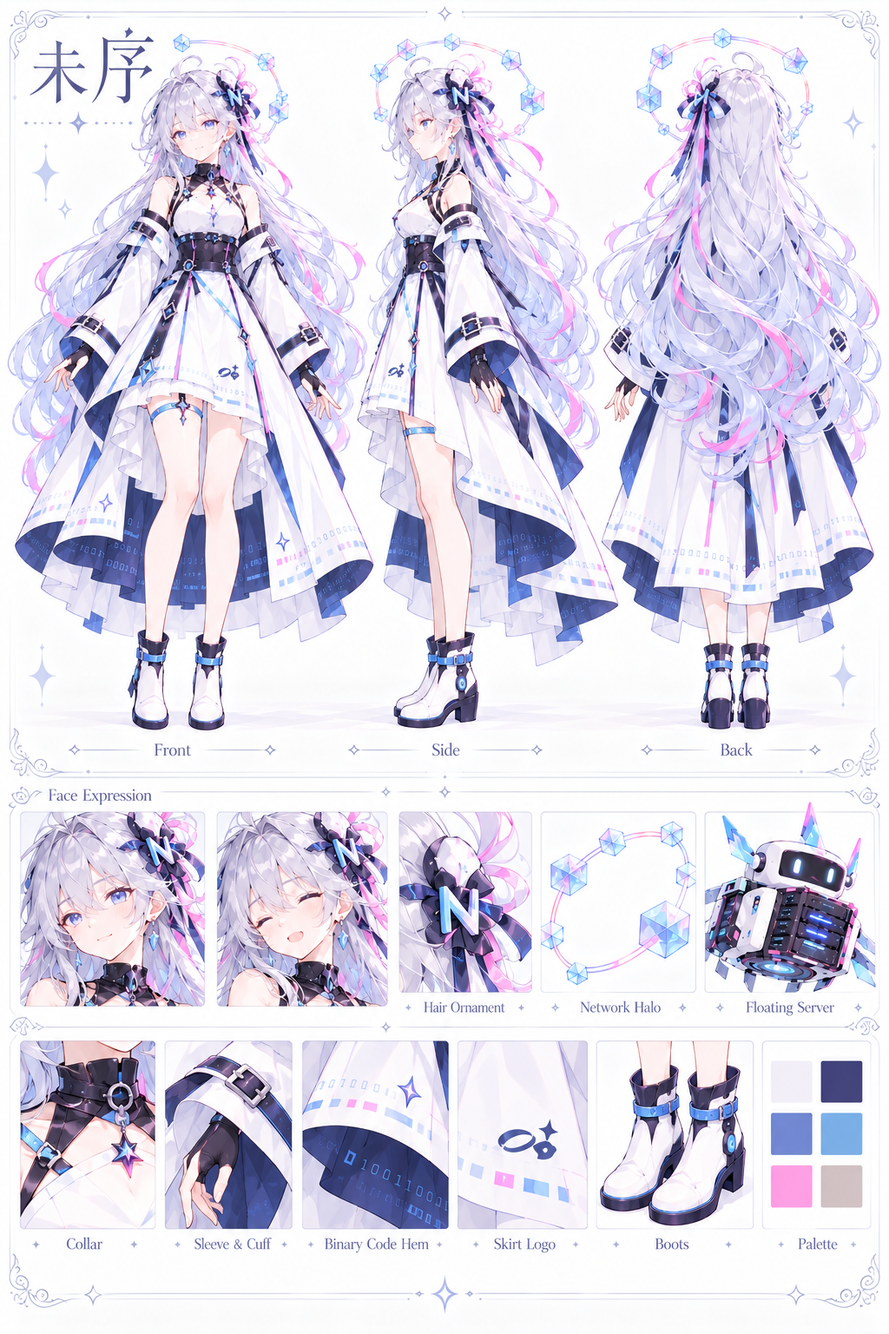
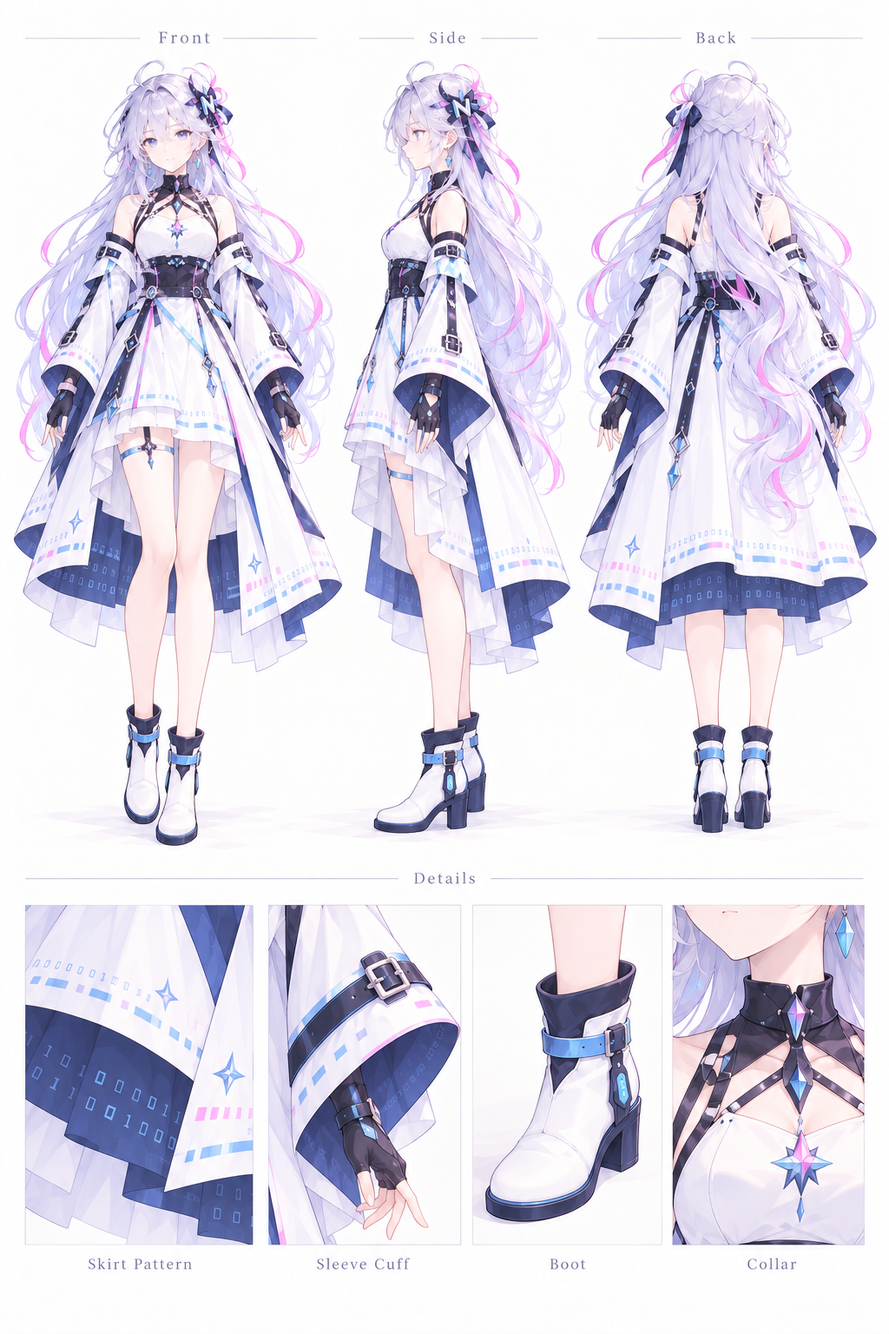
Refine live overview and mascot presentation with responsive layout

diff --git a/frontend/src/App.vue b/frontend/src/App.vue
@@ -6,6 +6,7 @@ import { createLogReader, type LogState } from './logs'
 import { allowedTarget, createIntentSender, disabledCapabilities, newIntentKey, type ActionIntent, type Capabilities, type IntentState } from './task-control'
 import { createTaskReader, type TaskDetailState } from './task-detail'
 import InstanceTable from './components/InstanceTable.vue'
+import OverviewPanel from './components/OverviewPanel.vue'
 import TaskDetail from './components/TaskDetail.vue'
 import TaskResolution from './components/TaskResolution.vue'
 import ProjectAccess from './components/ProjectAccess.vue'
@@ -376,19 +377,19 @@ onUnmounted(() => {
 <template>
   <div v-if="landing" class="landing">
     <header class="landing-nav"><a class="landing-brand" href="/" aria-label="未序首页"><img src="/logo.png" alt="未序" /></a><nav><a href="#product">产品概览</a><a href="#capability">核心能力</a><a href="#docs">开发路线</a></nav><button class="landing-console" @click="go('overview')">进入控制台 <span>↗</span></button></header>
-    <main><section class="landing-hero"><div class="hero-copy"><p class="landing-eyebrow">WEIXU / ARGUS</p><h1>让每一台服务器，<br />都有清晰的秩序。</h1><p class="hero-lead">将分散的节点、服务与运行信息，汇聚到一个工作台。<br />从 Minecraft 开始，面向更多服务。</p><div class="hero-actions"><button class="hero-primary" @click="go('overview')">进入控制台 <span>→</span></button><a class="hero-secondary" href="#capability">查看项目能力</a></div><p class="hero-note">持续开发中 · 当前功能以控制台状态为准</p></div><div class="hero-art"><div class="art-halo"></div><img src="/weixu-niang.png" alt="未序娘" /></div></section><section id="capability" class="landing-section capability"><div class="section-title"><p class="landing-eyebrow">FROM NODE TO SERVICE</p><h2>从节点到服务，<br />信息始终贯通。</h2><p>无论是单个服务器，还是多样的服务实例，都在同一个工作台中，保持清晰的上下文。</p></div><div class="capability-grid"><article><b>01</b><h3>统一查看节点</h3><p>集中查看服务器健康状态与资源使用情况。</p></article><article><b>02</b><h3>跟踪服务状态</h3><p>掌握实例运行状态、采集时间与数据来源。</p></article><article><b>03</b><h3>留下操作记录</h3><p>任务、日志与人工核对记录可追溯。</p></article><article><b>04</b><h3>从日志定位问题</h3><p>通过运行日志和任务事件快速定位问题。</p></article></div></section><section id="product" class="landing-band"><div><p class="landing-eyebrow">ARGUS CONTROL CENTER</p><h2>少一点来回切换，<br />多一点掌控。</h2><p>节点状态、服务实例、任务与日志，在一个清晰的控制台里连接起来。</p></div><button class="hero-primary" @click="go('overview')">打开控制台 <span>→</span></button></section><section id="docs" class="landing-roadmap"><p class="landing-eyebrow">ROADMAP</p><h2>一步一步，走向智能运维。</h2><div class="roadmap-line"><div><b>当前</b><strong>节点与实例</strong><span>任务与日志基础链路</span></div><div><b>持续完善</b><strong>操作闭环</strong><span>可靠投递与人工核对</span></div><div><b>后续规划</b><strong>AI 辅助排障</strong><span>在可验证数据上提供建议</span></div></div></section></main><footer class="landing-footer"><img src="/logo.png" alt="未序" /><span>wx-s.cn</span><span>智能运维控制台 · 持续建设中</span></footer>
+    <main><section class="landing-hero"><div class="hero-copy"><p class="landing-eyebrow">WEIXU / ARGUS</p><h1>让每一台服务器，<br />都有清晰的秩序。</h1><p class="hero-lead">将分散的节点、服务与运行信息，汇聚到一个工作台。<br />从 Minecraft 开始，面向更多服务。</p><div class="hero-actions"><button class="hero-primary" @click="go('overview')">进入控制台 <span>→</span></button><a class="hero-secondary" href="#capability">查看项目能力</a></div><p class="hero-note">持续开发中 · 当前功能以控制台状态为准</p></div><div class="hero-art"><div class="art-halo"></div><img src="/weixu-niang-full.png" alt="未序娘，未序 Argus 品牌角色" fetchpriority="high" /><span class="hero-character-label">未序娘 <small>WEIXU / COMPANION</small></span></div></section><section id="capability" class="landing-section capability"><div class="section-title"><p class="landing-eyebrow">FROM NODE TO SERVICE</p><h2>从节点到服务，<br />信息始终贯通。</h2><p>无论是单个服务器，还是多样的服务实例，都在同一个工作台中，保持清晰的上下文。</p></div><div class="capability-grid"><article><b>01</b><h3>统一查看节点</h3><p>集中查看服务器健康状态与资源使用情况。</p></article><article><b>02</b><h3>跟踪服务状态</h3><p>掌握实例运行状态、采集时间与数据来源。</p></article><article><b>03</b><h3>留下操作记录</h3><p>任务、日志与人工核对记录可追溯。</p></article><article><b>04</b><h3>从日志定位问题</h3><p>通过运行日志和任务事件快速定位问题。</p></article></div></section><section id="product" class="landing-band"><div><p class="landing-eyebrow">ARGUS CONTROL CENTER</p><h2>少一点来回切换，<br />多一点掌控。</h2><p>节点状态、服务实例、任务与日志，在一个清晰的控制台里连接起来。</p></div><button class="hero-primary" @click="go('overview')">打开控制台 <span>→</span></button></section><section id="docs" class="landing-roadmap"><p class="landing-eyebrow">ROADMAP</p><h2>一步一步，走向智能运维。</h2><div class="roadmap-line"><div><b>当前</b><strong>节点、实例与监控</strong><span>真实采集、日志与告警</span></div><div><b>持续完善</b><strong>受控操作与恢复</strong><span>持久任务、可靠事件与人工核对</span></div><div><b>后续规划</b><strong>AI 辅助排障</strong><span>在可验证数据上提供建议</span></div></div></section></main><footer class="landing-footer"><img src="/logo.png" alt="未序" /><span>wx-s.cn</span><span>智能运维控制台 · 持续建设中</span></footer>
   </div>
   <div v-else class="shell">
     <aside class="sidebar" :inert="Boolean(confirmation)">
       <div class="brand"><img class="brand-logo" src="/logo.png?v=20261007" alt="未序 Logo" /><small>智能运维控制台</small></div>
       <div class="workspace"><span :class="['dot', connected ? 'online' : 'offline']"></span><div><small>当前工作区</small><strong>我的服务器</strong></div></div>
       <nav><template v-for="item in nav" :key="item.id"><button v-if="item.id !== 'access' || identityMode" :class="{ active: page === item.id }" @click="go(item.id)"><span class="nav-icon" aria-hidden="true">{{ item.icon }}</span>{{ item.label }}</button></template></nav>
-      <div class="sidebar-bottom"><div class="profile"><img class="avatar avatar-image" src="/weixu-niang.png" alt="未序娘" /><div><b>未序娘</b><small>形象展示 · AI 尚未接入</small></div></div></div>
+      <div class="sidebar-bottom"><div class="profile"><span class="mascot-avatar"><img src="/weixu-niang-full.png" alt="未序娘" /></span><div><b>未序娘</b><small>未序 · 运维工作台</small></div></div></div>
     </aside>
     <main class="main" :inert="Boolean(confirmation)">
-      <header class="topbar"><div class="crumb">工作区 <span>/</span> <b>{{ currentLabel }}</b></div><div class="top-actions"><span class="connection"><i :class="{ offline: !connected }"></i>{{ loading ? '正在读取' : connected ? '控制中心可访问' : '控制中心不可用' }}</span><template v-if="!identityMode"><button class="auth-clear" @click="editToken = !editToken">{{ hasApiToken ? '更换令牌' : '输入令牌' }}</button><button v-if="hasApiToken" class="auth-clear" @click="removeApiToken">清除令牌</button></template><template v-else-if="authState.identity"><span class="identity-label">{{ authState.identity.displayName }}</span><button class="auth-clear" @click="logout">退出</button></template><img class="top-avatar avatar-image" src="/weixu-niang.png" alt="未序娘" /></div></header>
+      <header class="topbar"><div class="crumb">工作区 <span>/</span> <b>{{ currentLabel }}</b></div><div class="top-actions"><span class="connection"><i :class="{ offline: !connected }"></i>{{ loading ? '正在读取' : connected ? '控制中心可访问' : '控制中心不可用' }}</span><template v-if="!identityMode"><button class="auth-clear" @click="editToken = !editToken">{{ hasApiToken ? '更换令牌' : '输入令牌' }}</button><button v-if="hasApiToken" class="auth-clear" @click="removeApiToken">清除令牌</button></template><template v-else-if="authState.identity"><span class="identity-label">{{ authState.identity.displayName }}</span><button class="auth-clear" @click="logout">退出</button></template><span class="mascot-avatar top-mascot"><img src="/weixu-niang-full.png" alt="未序娘" /></span></div></header>
       <div class="content">
-        <div class="page-head"><div><p class="eyebrow">ARGUS / {{ currentLabel }}</p><h1>{{ page === 'overview' ? '欢迎回来' : currentLabel }}</h1><p class="subtitle">按采集时间查看节点和实例，过期状态会明确标记。</p></div><button class="refresh" :disabled="loading || identityMode && (authState.phase !== 'ready' || !authState.project)" @click="load">↻ <span>刷新数据</span></button></div>
+        <div class="page-head"><div><p class="eyebrow">ARGUS / {{ currentLabel }}</p><h1>{{ page === 'overview' ? '运行概览' : currentLabel }}</h1><p class="subtitle">按采集时间查看节点和实例，过期状态会明确标记。</p></div><button class="refresh" :disabled="loading || identityMode && (authState.phase !== 'ready' || !authState.project)" @click="load">↻ <span>刷新数据</span></button></div>
         <div v-if="identityMode && (authState.phase === 'anonymous' || authState.phase === 'error')" class="auth-banner"><div><strong>登录控制中心</strong><p>{{ authState.error || '使用组织身份登录；网页不保存 OIDC 令牌。' }}</p></div><div class="auth-actions"><button class="primary" @click="login">登录</button></div></div>
         <div v-else-if="!identityMode && (authRequired || editToken)" class="auth-banner"><div><strong>连接控制中心</strong><p>可输入查看或操作令牌；权限由服务端核验。仅保存在当前浏览器会话。</p></div><div class="auth-actions"><input v-model="tokenInput" type="password" placeholder="粘贴 Bearer 令牌" aria-label="访问令牌" @keyup.enter="submitApiToken" /><button class="primary" @click="submitApiToken">连接</button></div></div>
         <div v-if="loadError" class="data-banner error" role="alert">读取失败：{{ loadError }}。未使用演示数据替代。</div>
@@ -404,10 +405,9 @@ onUnmounted(() => {
             <div class="metric-card"><span class="metric-label">近期验证的节点</span><strong>{{ verifiedNodes.length }}<small> / {{ nodes.length }}</small></strong><span class="metric-foot neutral">排除旧快照和模拟数据</span></div>
             <div class="metric-card"><span class="metric-label">近期运行中实例</span><strong>{{ runningInstances }}<small> / {{ instances.length }}</small></strong><span class="metric-foot neutral">以最近成功采集为准</span></div>
             <div class="metric-card"><span class="metric-label">平均 CPU 使用率</span><strong>{{ averageCpu }}</strong><span class="metric-foot neutral">{{ cpuSamples.length }} 个可用近期样本</span></div>
-            <div class="metric-card"><span class="metric-label">活跃告警</span><strong>—</strong><span class="metric-foot neutral">告警源尚未接入</span></div>
+            <div class="metric-card"><span class="metric-label">当前访问模式</span><strong>{{ !readOnly && capabilities.canControl ? '可操作' : '只读' }}</strong><span class="metric-foot neutral">{{ !readOnly && capabilities.canControl ? '操作前需确认目标' : '按当前身份授予权限' }}</span></div>
           </section>
-          <section class="grid-two"><div class="panel"><div class="panel-head"><div><h2>资源概览</h2><p>接入指标存储后显示历史曲线</p></div></div><div class="empty-state">当前仅展示采集快照，尚无历史指标曲线。</div></div><div class="panel"><div class="panel-head"><div><h2>需要关注</h2><p>当前没有接入告警源</p></div></div><div class="empty-state">暂无可验证的告警事件。</div></div></section>
-          <section class="panel instance-panel"><div class="panel-head"><div><h2>实例快照</h2><p>180 秒后标为旧快照；保留最近一次观测值</p></div><button class="text-btn" @click="go('instances')">查看实例 →</button></div><InstanceTable :items="instances" :nodes="nodes" :now="now" :action-reason="actionReason" :blocking-task="blockingTask" @control="control" @show-task="showTask" /></section>
+          <OverviewPanel :items="instances" :nodes="nodes" :tasks="tasks" :now="now" :action-reason="actionReason" :blocking-task="blockingTask" @control="control" @show-task="showTask" @logs="item => { selectedInstance = item.id; go('logs') }" @tasks="go('tasks')" @monitoring="go('monitoring')" />
         </template>
 
         <template v-else-if="page === 'nodes'">
@@ -425,7 +425,7 @@ onUnmounted(() => {
 
         <template v-else-if="page === 'instances'">
           <section class="panel full"><div class="panel-head"><div><h2>服务实例</h2><p>同名容器按所属节点和中央实例 ID 区分</p></div><button class="primary" @click="showUnavailable('创建实例')">＋ 创建实例</button></div>
-            <div class="data-banner">{{ capabilities.canControl && capabilities.controlEnabled ? '受控操作可用；提交前确认目标与执行模式，排队后到任务页查询结果。' : capabilities.reason }} 默认关闭控制。任务结果与实例采集状态分别记录。</div>
+            <div class="data-banner">{{ capabilities.canControl && capabilities.controlEnabled ? '受控操作可用；提交前确认目标与执行模式，排队后到任务页查询结果。' : capabilities.reason }} 任务结果与实例采集状态分别记录。</div>
             <InstanceTable :items="instances" :nodes="nodes" :now="now" :action-reason="actionReason" :blocking-task="blockingTask" @control="control" @show-task="showTask" />
           </section>
         </template>

diff --git a/frontend/src/brand-theme.css b/frontend/src/brand-theme.css
@@ -8,3 +8,20 @@ body{min-width:0;background:#f5f8fc;color:#17253b}.shell{min-height:100vh;backgr
 .task-row{border-color:#e6edf4;color:#506a84}.task-row:hover,.task-select.selected{background:#f2f7fd}.task-main strong{color:#263b56}.task-main span,.task-id,.task-time,.task-duration{color:#8394a6}.task-check.success{background:#e9f9f2;color:#18936d}.task-check.running{background:#fff4df;color:#ae792c}.task-status.success,.task-status.succeeded{color:#198f69}.task-status.running,.task-status.unknown{color:#b1782b}.task-status.failed{color:#c65762}.task-status.dispatching,.task-status.delivered,.task-status.retry_wait{color:#3973aa}.terminal{border-color:#d9e4ee}.toast{background:#e9f9f3;border-color:#a9ddc8;color:#197b5b;box-shadow:0 8px 28px #203b551f}
 .project-bar select,.access-project-form input,.access-add-form select,.member-row select{background:#fff;border-color:#cbdbe9;color:#2a435e}.member-table{border-color:#dce6ef}.member-row{border-color:#e3ebf2;color:#4c6580}.member-head{background:#f5f8fb;color:#71859a}.member-row small{color:#8496a8}.confirm-overlay{background:#10233a88}.confirm-card{background:#fff;border-color:#d2e0ed;color:#4a6077;box-shadow:0 24px 90px #18324a33}.confirm-card h2{color:#1a2b42}.confirm-target{background:#f4f8fc}.confirm-target dt,.task-facts dt{color:#73869a}.confirm-target dd,.task-facts dd{color:#2d4560}.mode-warning.danger{color:#b24c54;background:#fff0f1;border-color:#edb6bb}
 @media(max-width:760px){.sidebar{background:#101e2e}.topbar{background:#fff}.content{padding-top:25px}}
+/* Reference-led overview; all state comes from existing APIs. */
+.sidebar{width:216px;background:linear-gradient(155deg,#192735,#101b28 70%)}.main{min-width:0}.content{max-width:1680px;padding:28px 28px 48px}.topbar{padding:0 28px;height:66px}.page-head{margin-bottom:22px}.brand-logo{width:166px}.sidebar nav button{font-size:13px;padding:13px 14px}.metrics{gap:0;border:1px solid #e2e9f2;border-radius:10px;background:#fff;overflow:hidden;margin-bottom:22px}.metrics .metric-card{border:0;box-shadow:none;border-radius:0;min-height:105px;padding:19px 24px;position:relative;background:transparent}.metrics .metric-card:not(:last-child):after{content:"";position:absolute;right:0;top:28px;bottom:28px;width:1px;background:#e2e9f2}.metric-card strong{font-size:27px;margin:4px 0}.metric-card .metric-foot{font-size:10px}.metric-label{font-size:12px}
+.overview-layout{display:grid;grid-template-columns:minmax(0,1fr) 286px;gap:18px;align-items:start}.overview-layout .panel{margin:0;border-radius:10px;overflow:hidden}.overview-instances{min-width:0}.overview-list-head{display:flex;align-items:center;justify-content:space-between;gap:14px;padding:20px 18px 10px;flex-wrap:wrap}.overview-list-head h2,.inspector-heading h2,.overview-node-title h2{font-size:17px;margin:0;color:#172b46}.overview-list-head h2>span,.overview-node-title h2>span{font-weight:400;color:#73849b;font-size:15px;margin-left:6px}.overview-filters{display:flex;gap:8px;flex-wrap:wrap}.instance-search{display:flex;align-items:center;gap:8px;border:1px solid #e2e9f2;border-radius:6px;padding:7px 10px;background:#fafcff;color:#73849b}.instance-search input{width:140px;border:0;outline:none;background:transparent;color:#172b46;font:inherit;font-size:12px}.overview-filters select{border:1px solid #e2e9f2;border-radius:6px;padding:7px 9px;background:#fff;color:#4c607b;max-width:170px;font:inherit;font-size:12px}.instance-tabs{display:flex;gap:24px;padding:0 18px;border-bottom:1px solid #e2e9f2}.instance-tabs button{background:transparent;color:#70819a;border:0;border-bottom:2px solid transparent;padding:13px 3px 11px;font:inherit;font-size:12px;cursor:pointer}.instance-tabs button span{font-size:11px;margin-left:3px}.instance-tabs button.active{border-bottom-color:#246fe5;color:#246fe5;font-weight:600}
+.compact-instances{min-width:0;overflow:visible}.compact-instances .table-header,.compact-instances .table-row{display:grid;grid-template-columns:minmax(140px,1.35fr) minmax(72px,.8fr) 85px 85px minmax(85px,.8fr) 91px;gap:9px;padding:12px 14px;min-width:0;align-items:center}.compact-instances .table-header{font-size:10px;line-height:1.5;background:#f8fafd}.compact-instances .table-row{font-size:11px;min-height:83px;border-left:2px solid transparent;transition:background .15s}.compact-instances .table-row.selected{background:linear-gradient(90deg,#edf5ff,#f8fbff);border-left-color:#4b91ff}.compact-instances .instance-name{gap:8px;min-width:0}.compact-instances .instance-name>div{min-width:0}.compact-instances .cube{width:28px;height:28px;border:1px solid #dfe9f6;border-radius:6px;flex-shrink:0;background:#fff;font-size:18px}.instance-select{display:block;text-align:left;border:0;background:transparent;color:#172b46;padding:0;font:inherit;font-weight:650;font-size:12px;cursor:pointer;max-width:100%;overflow-wrap:anywhere}.instance-select:hover{color:#246fe5}.compact-instances .instance-name small{overflow:hidden;text-overflow:ellipsis;white-space:nowrap;font-size:9px}.compact-instances .identifier{display:none}.compact-instances .node-name{overflow-wrap:anywhere;font-size:11px}.compact-instances .resource-values small:nth-child(3){display:none}.compact-instances .resource-values small{font-size:9px}.compact-instances .resource-values b{font-size:11px}.compact-instances .sample-time{font-size:10px;overflow-wrap:anywhere}.compact-instances .sample-time small{display:none}.compact-instances .status-pill{padding:4px 7px;font-size:10px;white-space:nowrap}.compact-instances .snapshot-badge{font-size:9px}.compact-instances .control-actions{gap:3px;flex-wrap:wrap}.compact-instances .control-actions button{width:26px;height:27px;padding:0;font-size:12px;border-radius:5px}.compact-instances .control-actions .blocking-task{width:auto;font-size:9px;padding:3px}.overview-list-foot{border-top:1px solid #edf1f6;padding:13px 18px;color:#8795a9;font-size:10px}.filter-empty{text-align:center;padding:0 12px 18px;color:#73849b}
+.overview-rail{display:grid;gap:16px}.instance-inspector{padding:18px}.inspector-heading{display:flex;align-items:center;justify-content:space-between;gap:8px}.inspector-identity{display:flex;align-items:center;gap:12px;margin:23px 0}.inspector-cube{width:43px;height:43px;display:grid;place-items:center;border:1px solid #e2e9f2;border-radius:9px;color:#3c5b82;font-size:32px;background:#fafcff}.inspector-identity>div{min-width:0}.inspector-identity h3{margin:0 0 5px;font-size:18px;overflow-wrap:anywhere;color:#172b46}.inspector-identity p{margin:0;font-size:11px;color:#73849b;overflow-wrap:anywhere}.inspector-facts{display:grid;grid-template-columns:80px minmax(0,1fr);gap:15px 8px;margin:0;font-size:12px}.inspector-facts dt{color:#73849b}.inspector-facts dd{margin:0;color:#314962;overflow-wrap:anywhere;line-height:1.5}.inspector-quality{display:flex;flex-direction:column;gap:5px;margin-top:20px;padding:10px 11px;background:#f3f7fc;border-radius:6px;color:#698097;font-size:10px;line-height:1.5}.inspector-quality.fresh{background:#eef8f5;color:#31876e}.inspector-quality.stale,.inspector-quality.unknown{background:#fff7e9;color:#9c7438}.inspector-quality.mock{background:#f7efff;color:#825caa}.inspector-identifiers{font-size:10px;color:#73849b;margin:15px 0}.inspector-identifiers summary{cursor:pointer}.inspector-identifiers p{overflow-wrap:anywhere;line-height:1.6}.inspector-links{display:grid;grid-template-columns:1fr 1fr;gap:8px}.inspector-links button{padding:10px 8px;font-size:12px;justify-content:center}
+.mascot-card{padding:17px;background:linear-gradient(145deg,#fff,#f5f4ff)!important}.mascot-card-head{display:flex;align-items:center;gap:9px}.mascot-card h3{margin:0 0 4px;font-size:15px;color:#263c5b}.mascot-card-head p{margin:0;font-size:10px;color:#8291a6}.mascot-tag{margin-left:auto;font-size:8px;color:#7785a8;border:1px solid #e0e4f4;border-radius:4px;padding:4px;white-space:nowrap}.mascot-message{font-size:12px;line-height:1.85;color:#738199;margin:14px 0 12px}.mascot-card .text-btn{font-size:11px}.mascot-avatar{display:inline-block;position:relative;overflow:hidden;flex-shrink:0;width:42px;height:42px;border-radius:50%;border:2px solid #e5e4fa;background:#f4f3fc}.mascot-avatar img{position:absolute;width:250%;max-width:none;height:auto;left:-75%;top:-20%}.top-mascot{width:32px;height:32px}.profile{gap:10px}
+.overview-nodes{margin-top:18px;padding:18px;border-radius:10px}.overview-node-title{display:flex;align-items:center;justify-content:space-between;gap:10px;margin-bottom:16px}.overview-node-title>span{font-size:10px;color:#73849b}.overview-node-grid{display:grid;grid-template-columns:repeat(auto-fit,minmax(225px,1fr));gap:13px}.overview-node{border:1px solid #e2e9f2;padding:15px;border-radius:8px;min-width:0}.overview-node-head{display:flex;align-items:center;justify-content:space-between;gap:8px}.overview-node h3{margin:0;font-size:12px;color:#172b46;overflow-wrap:anywhere}.overview-node-values{display:grid;grid-template-columns:1.25fr 1fr 1fr;gap:8px;margin:15px 0 10px;font-size:10px;color:#73849b}.overview-node-values b{display:block;color:#3f5874;margin-top:6px;font-size:12px}.overview-memory{height:5px;background:#edf2f8;border-radius:3px;overflow:hidden}.overview-memory i{height:100%;display:block;background:linear-gradient(90deg,#3d81e9,#9caff5);border-radius:3px}.overview-node>p{font-size:9px;color:#8998ab;margin:10px 0 0;line-height:1.5}
+.hero-art{position:relative;isolation:isolate}.hero-art img{object-fit:contain;object-position:center;mix-blend-mode:multiply}.hero-character-label{position:absolute;right:3%;bottom:7%;color:#56678a;font-size:13px;letter-spacing:2px;background:#ffffffdc;border:1px solid #e5e8f3;border-radius:8px;padding:12px 16px;box-shadow:0 6px 30px #b8c2e41c}.hero-character-label small{display:block;font-size:8px;letter-spacing:1.3px;margin-top:5px;color:#9aa5bf}.landing-hero{background:radial-gradient(ellipse at 75% 35%,#e9eaff80,transparent 58%)}
+button:focus-visible,select:focus-visible,input:focus-visible,a:focus-visible{outline:2px solid #4382e6;outline-offset:3px}
+@media(max-width:1250px){.overview-layout{grid-template-columns:minmax(0,1fr)}.overview-rail{grid-template-columns:minmax(0,1.2fr) minmax(0,1fr)}.mascot-card{align-self:start}.content{padding:24px}.topbar{padding:0 24px}}
+@media(max-width:760px){.sidebar{width:auto}.content{padding:22px 16px 40px}.topbar{height:auto;min-height:60px;padding:12px 16px;gap:10px;flex-wrap:wrap}.top-actions{gap:8px;flex-wrap:wrap}.top-mascot{display:none}.metrics{grid-template-columns:repeat(2,minmax(0,1fr))}.metrics .metric-card{padding:15px;min-height:106px}.metrics .metric-card:nth-child(2):after{display:none}.metrics .metric-card:nth-child(-n+2){border-bottom:1px solid #e2e9f2}.overview-rail{grid-template-columns:1fr}.overview-list-head{padding:16px 12px 8px}.overview-filters{width:100%}.instance-search{flex:1;min-width:0}.instance-search input{width:100%;min-width:0}.overview-filters select{max-width:125px}.compact-instances{overflow-x:auto}.compact-instances .table-header,.compact-instances .table-row{min-width:680px}.overview-node-title{align-items:flex-start;flex-direction:column}.overview-node-grid{grid-template-columns:1fr}.page-head h1{font-size:25px}.hero-character-label{bottom:3%;padding:8px 12px}.mascot-tag{font-size:9px}.instance-tabs{gap:22px}}
+@media(prefers-reduced-motion:reduce){*,*:before,*:after{scroll-behavior:auto!important;transition:none!important;animation:none!important}}
+/* Keep long inventories within the overview; full list remains on Instances. */
+.overview-instances .compact-instances{max-height:520px;overflow:auto;scrollbar-width:thin;scrollbar-color:#c8d6e9 transparent}.compact-instances .table-header{position:sticky;top:0;z-index:1}.compact-instances .table-row{min-height:75px}.mascot-avatar img{width:350%;left:-125%;top:-35%}.landing-hero{min-height:640px;background:#fff}.hero-art{position:absolute;isolation:auto;right:0;bottom:0;width:50%;height:610px}.hero-art img{filter:none;mix-blend-mode:multiply}.hero-character-label{bottom:6%;right:8%}
+@media(max-width:760px){.landing-hero{display:block;min-height:0;padding:40px 22px 0}.hero-copy{max-width:none;width:100%}.hero-art{position:relative;width:100%;height:440px;bottom:auto;right:auto;margin-top:20px}.hero-character-label{bottom:18px;right:0}.overview-instances .compact-instances{max-height:460px}}
+@media(max-width:760px){.landing-nav{height:64px;padding:0 18px;gap:14px;justify-content:space-between}.landing-brand img{width:100px}.landing-nav nav{display:none}.landing-console{white-space:nowrap;padding:10px 12px;font-size:12px;flex:none}.hero-copy h1{font-size:34px;line-height:1.35;letter-spacing:-1px}.hero-lead{font-size:14px;line-height:1.9}.hero-actions{gap:10px;flex-wrap:wrap}.hero-primary,.hero-secondary{white-space:nowrap;font-size:12px;padding:13px 16px}.landing-section{padding:48px 22px}.capability{display:grid;grid-template-columns:minmax(0,1fr);gap:24px}.section-title{min-width:0;width:auto;max-width:none}.capability-grid{display:grid;grid-template-columns:repeat(2,minmax(0,1fr));gap:20px}.capability-grid article{min-width:0}.section-title h2,.landing-band h2,.landing-roadmap h2{font-size:28px;line-height:1.45}.landing-band{display:block;padding:42px 22px}.landing-band .hero-primary{margin-top:24px}.landing-roadmap{padding:44px 22px}.roadmap-line{display:grid;grid-template-columns:minmax(0,1fr);gap:28px}.roadmap-line:before{display:none}.roadmap-line>div{width:auto;min-width:0}.landing-footer{padding:22px;flex-wrap:wrap;gap:15px;font-size:10px}.landing-footer img{width:95px}}
+@media(max-width:760px){.roadmap-line{border-top:0;border-left:2px solid #dce7f8;margin-top:30px;padding:0 0 0 25px;gap:28px}.roadmap-line>div:before{top:0;left:-35px}.roadmap-line strong{font-size:16px}}

diff --git a/frontend/src/components/OverviewPanel.vue b/frontend/src/components/OverviewPanel.vue
@@ -1,0 +1,44 @@
+<script setup lang="ts">
+import { computed, ref, watch } from 'vue'
+import type { Instance, NodeItem, Task, TaskAction } from '../models'
+import { bytes, instanceQuality, nodeQuality, percent, sourceLabel, timeLabel } from '../models'
+import InstanceTable from './InstanceTable.vue'
+const props = defineProps<{ items: Instance[]; nodes: NodeItem[]; tasks: Task[]; now: number; actionReason: (item: Instance, action: TaskAction) => string; blockingTask: (item: Instance) => string }>()
+const emit = defineEmits<{ control: [action: TaskAction, instance: Instance]; showTask: [id: string]; logs: [instance: Instance]; tasks: []; monitoring: [] }>()
+const query = ref(''), nodeFilter = ref(''), status = ref('all'), selectedId = ref('')
+const tabs = [{ id: 'all', label: '全部' }, { id: 'running', label: '运行中' }, { id: 'stopped', label: '已停止' }]
+const scoped = computed(() => props.items.filter(i => (!nodeFilter.value || i.nodeId === nodeFilter.value) && (!query.value.trim() || [i.name, i.agentInstanceId, i.id, props.nodes.find(n => n.id === i.nodeId)?.name || ''].some(v => v.toLowerCase().includes(query.value.trim().toLowerCase())))))
+const filtered = computed(() => scoped.value.filter(i => status.value === 'all' || i.status === status.value))
+const selected = computed(() => filtered.value.find(i => i.id === selectedId.value) || filtered.value[0])
+watch(filtered, list => { if (!list.some(i => i.id === selectedId.value)) selectedId.value = list[0]?.id || '' })
+const parent = computed(() => props.nodes.find(n => n.id === selected.value?.nodeId))
+const quality = computed(() => selected.value ? instanceQuality(selected.value, parent.value, props.now) : null)
+const latestTask = computed(() => props.tasks.find(t => t.instanceId === selected.value?.id))
+const label = (i: Instance) => ({ running: '运行中', stopped: '已停止', starting: '启动中', error: '异常', unknown: '未知' })[i.status]
+function taskLink() { latestTask.value ? emit('showTask', latestTask.value.id) : emit('tasks') }
+</script>
+
+<template>
+  <div class="overview-layout">
+    <section class="panel overview-instances">
+      <div class="overview-list-head"><h2>服务实例 <span>{{ items.length }}</span></h2><div class="overview-filters"><label class="instance-search"><span aria-hidden="true">⌕</span><input v-model="query" aria-label="搜索实例" placeholder="搜索实例或节点…" /></label><select v-model="nodeFilter" aria-label="按节点筛选"><option value="">全部节点</option><option v-for="node in nodes" :key="node.id" :value="node.id">{{ node.name }}</option></select></div></div>
+      <div class="instance-tabs" role="group" aria-label="按观测状态筛选"><button v-for="tab in tabs" :key="tab.id" :aria-pressed="status === tab.id" :class="{ active: status === tab.id }" @click="status = tab.id">{{ tab.label }} <span>{{ tab.id === 'all' ? scoped.length : scoped.filter(i => i.status === tab.id).length }}</span></button></div>
+      <InstanceTable :items="filtered" :nodes="nodes" :now="now" :action-reason="actionReason" :blocking-task="blockingTask" compact :selected-id="selected?.id" @select="selectedId = $event" @control="(action, item) => emit('control', action, item)" @show-task="emit('showTask', $event)" />
+      <div v-if="!filtered.length" class="filter-empty"><p>{{ items.length ? '没有匹配的实例' : '暂无实例数据，请先连接控制中心' }}</p><button v-if="items.length" class="text-btn" @click="query = ''; nodeFilter = ''; status = 'all'">清除筛选</button></div>
+      <div class="overview-list-foot">每 15 秒刷新视图 · 观测状态以采集时间为准</div>
+    </section>
+    <aside class="overview-rail">
+      <section class="panel instance-inspector" aria-label="实例详情" aria-live="polite">
+        <div class="inspector-heading"><h2>实例详情</h2><span v-if="selected" class="status-pill" :class="selected.status"><i></i>{{ label(selected) }}</span></div>
+        <template v-if="selected"><div class="inspector-identity"><span class="inspector-cube">◇</span><div><h3>{{ selected.name }}</h3><p>{{ selected.agentInstanceId || '未报告容器标识' }}</p></div></div>
+          <dl class="inspector-facts"><dt>所属节点</dt><dd>{{ parent?.name || selected.node }}</dd><dt>数据来源</dt><dd>{{ sourceLabel(selected.dataSource) }}</dd><dt>CPU 使用率</dt><dd>{{ percent(selected.cpuPercent, selected.metricsStatus) }}</dd><dt>内存占用</dt><dd>{{ bytes(selected.memoryBytes, selected.metricsStatus) }}</dd><dt>最近采集</dt><dd>{{ timeLabel(selected.sampledAt) }}</dd></dl>
+          <div v-if="quality" :class="['inspector-quality', quality.state]"><b>{{ quality.label }}</b><span>{{ quality.detail }}</span></div>
+          <details class="inspector-identifiers"><summary>实例标识与镜像</summary><p>中央 ID：{{ selected.id }}</p><p>节点 ID：{{ selected.nodeId }}</p><p>镜像 / 版本：{{ selected.image }}</p></details>
+          <div class="inspector-links"><button class="primary" @click="emit('logs', selected)">查看日志</button><button class="refresh" @click="taskLink">{{ latestTask ? '最近任务' : '查看任务' }}</button></div>
+        </template><p v-else class="empty-state">选择一个实例，查看运行信息</p>
+      </section>
+      <section class="panel mascot-card"><div class="mascot-card-head"><span class="mascot-avatar"><img src="/weixu-niang-full.png" alt="未序娘头像" /></span><div><h3>未序娘</h3><p>陪你看清每一次运行</p></div><span class="mascot-tag">未序 · Argus</span></div><p class="mascot-message">从节点到实例，把运行信息放在一起。需要排查时，先看看采集时间、日志和任务记录。</p><button class="text-btn" @click="emit('monitoring')">查看监控与告警 <span>→</span></button></section>
+    </aside>
+  </div>
+  <section class="panel overview-nodes"><div class="overview-node-title"><h2>节点状态 <span>{{ nodes.length }}</span></h2><span>真实采集 · 缺失指标显示为未知</span></div><div class="overview-node-grid"><article v-for="node in nodes" :key="node.id" class="overview-node" :data-overview-node-id="node.id"><div class="overview-node-head"><h3>{{ node.name }}</h3><span :class="['snapshot-badge', nodeQuality(node, now).state]">{{ nodeQuality(node, now).label }}</span></div><div class="overview-node-values"><span>观测运行实例<b>{{ items.filter(i => i.nodeId === node.id && i.status === 'running').length }} / {{ items.filter(i => i.nodeId === node.id).length }}</b></span><span>CPU<b>{{ percent(node.cpu, node.metricsStatus) }}</b></span><span>内存<b>{{ percent(node.memory, node.metricsStatus) }}</b></span></div><div class="overview-memory" aria-hidden="true"><i :style="{ width: node.memory === null ? '0%' : Math.min(100, node.memory) + '%' }"></i></div><p>{{ sourceLabel(node.dataSource) }} · {{ timeLabel(node.sampledAt) }}</p></article></div></section>
+</template>

diff --git a/frontend/src/components/InstanceTable.vue b/frontend/src/components/InstanceTable.vue
@@ -2,8 +2,8 @@
 import type { Instance, NodeItem, TaskAction } from '../models'
 import { actionLabel, bytes, instanceQuality, metricsLabel, missingMetric, percent, sourceLabel, timeLabel } from '../models'
 
-const props = defineProps<{ items: Instance[]; nodes: NodeItem[]; now: number; actionReason: (item: Instance, action: TaskAction) => string; blockingTask: (item: Instance) => string }>()
-const emit = defineEmits<{ control: [action: TaskAction, instance: Instance]; showTask: [id: string] }>()
+const props = defineProps<{ items: Instance[]; nodes: NodeItem[]; now: number; actionReason: (item: Instance, action: TaskAction) => string; blockingTask: (item: Instance) => string; compact?: boolean; selectedId?: string }>()
+const emit = defineEmits<{ control: [action: TaskAction, instance: Instance]; showTask: [id: string]; select: [id: string] }>()
 const actions: TaskAction[] = ['START', 'STOP', 'RESTART']
 const parent = (item: Instance) => props.nodes.find(node => node.id === item.nodeId)
 const quality = (item: Instance) => instanceQuality(item, parent(item), props.now)
@@ -11,11 +11,11 @@ const statusLabel = (status: Instance['status']) => ({ running: '运行中', sto
 </script>
 
 <template>
-  <div class="instance-table">
-    <div class="table-header"><span>实例 / 中央 ID</span><span>所属节点</span><span>观测状态</span><span>资源与来源</span><span>采集时间</span><span>受控操作</span></div>
-    <div v-if="!items.length" class="empty-state">暂无实例数据</div>
-    <div v-for="item in items" :key="item.id" class="table-row" :data-instance-id="item.id">
-      <div class="instance-name"><span class="cube">▣</span><div><strong>{{ item.name }}</strong><small>{{ item.agentInstanceId || '未报告容器标识' }} · {{ item.image }}</small><small class="identifier" :title="item.id">ID：{{ item.id || '缺少中央标识' }}</small></div></div>
+  <div class="instance-table" :class="{ 'compact-instances': compact }">
+    <div class="table-header"><span>{{ compact ? '实例名称' : '实例 / 中央 ID' }}</span><span>所属节点</span><span>观测状态</span><span>资源与来源</span><span>采集时间</span><span>受控操作</span></div>
+    <div v-if="!items.length && !compact" class="empty-state">暂无实例数据</div>
+    <div v-for="item in items" :key="item.id" class="table-row" :data-instance-id="item.id" :class="{ selected: compact && selectedId === item.id }">
+      <div class="instance-name"><span class="cube">▣</span><div><button v-if="compact" class="instance-select" :aria-pressed="selectedId === item.id" :aria-label="`查看 ${item.name} 详情`" @click="emit('select', item.id)">{{ item.name }}</button><strong v-else>{{ item.name }}</strong><small>{{ item.agentInstanceId || '未报告容器标识' }} · {{ item.image }}</small><small class="identifier" :title="item.id">ID：{{ item.id || '缺少中央标识' }}</small></div></div>
       <div class="node-name"><span>{{ parent(item)?.name || item.node }}</span><small class="identifier">{{ item.nodeId || '未关联节点' }}</small></div>
       <div class="observed-state"><span class="status-pill" :class="item.status"><i></i>{{ statusLabel(item.status) }}</span><span :class="['snapshot-badge', quality(item).state]" :title="quality(item).detail">{{ quality(item).label }}</span></div>
       <div class="resource-values"><b>{{ bytes(item.memoryBytes, item.metricsStatus) }}</b><small>CPU {{ percent(item.cpuPercent, item.metricsStatus) }}</small><small>玩家：{{ item.players === null ? missingMetric(item.metricsStatus) : `${item.players} 人` }}</small><small :class="{ 'mock-text': item.dataSource === 'MOCK' }">{{ sourceLabel(item.dataSource) }} · {{ metricsLabel(item.metricsStatus) }}</small></div>

diff --git a/deploy/frontend/publish-static.py b/deploy/frontend/publish-static.py
@@ -1,0 +1,34 @@
+"""Publish a verified static bundle, assets first and index last; retain old chunks."""
+import hashlib,json,os,re,shutil,sys,tarfile,urllib.request
+from pathlib import Path
+from datetime import datetime,timezone
+archive=Path(sys.argv[1]);expected=sys.argv[2];host=sys.argv[3]
+assert re.fullmatch(r'[A-Za-z0-9.-]+',host)
+assert hashlib.sha256(archive.read_bytes()).hexdigest()==expected
+root=Path('/var/www/argus');assert root.is_dir() and (root/'index.html').is_file()
+release=Path('/opt/argus/frontend/releases')/('brand-'+datetime.now(timezone.utc).strftime('%Y%m%dT%H%M%SZ'))
+release.mkdir(parents=True);stage=release/'candidate';stage.mkdir()
+with tarfile.open(archive,'r:gz') as tar:
+ for m in tar.getmembers():
+  assert not m.issym() and not m.islnk() and (m.isfile() or m.isdir())
+  assert (stage/m.name).resolve().is_relative_to(stage.resolve())
+ tar.extractall(stage,filter='data')
+assert (stage/'index.html').is_file()
+for name in re.findall(r'(?:src|href)="(/assets/[^\"]+)"',(stage/'index.html').read_text()):assert (stage/name.lstrip('/')).is_file()
+with tarfile.open(release/'previous-static.tar.gz','w:gz') as tar:tar.add(root,arcname='argus')
+os.chmod(release/'previous-static.tar.gz',0o600)
+old=(root/'index.html').read_bytes()
+def replace(src,dst):
+ dst.parent.mkdir(parents=True,exist_ok=True);tmp=dst.with_name(dst.name+'.new-brand');shutil.copyfile(src,tmp);os.chmod(tmp,0o644);os.replace(tmp,dst)
+try:
+ for src in stage.rglob('*'):
+  if src.is_file() and src.name!='index.html':replace(src,root/src.relative_to(stage))
+ replace(stage/'index.html',root/'index.html')
+ digest=hashlib.sha256((root/'index.html').read_bytes()).hexdigest()
+ for port in (80,9090):
+  req=urllib.request.Request('http://127.0.0.1:'+str(port)+'/',headers={'Host':host})
+  with urllib.request.urlopen(req,timeout=5) as r:assert r.status==200 and hashlib.sha256(r.read()).hexdigest()==digest
+except Exception:
+ (root/'index.html.rollback').write_bytes(old);os.chmod(root/'index.html.rollback',0o644);os.replace(root/'index.html.rollback',root/'index.html');raise
+report={'scope':'FRONTEND_BRAND_STATIC_RELEASE','passed':True,'indexSha256':digest,'archiveSha256':expected,'oldAssetsRetained':True,'portsVerified':[80,9090],'publishedAt':datetime.now(timezone.utc).isoformat()}
+(release/'result.json').write_text(json.dumps(report,indent=2));print(json.dumps(report))

diff --git a/docs/前端设计优化-20261020.md b/docs/前端设计优化-20261020.md
@@ -1,0 +1,28 @@
+# 前端设计优化与静态发布
+
+2026-10-20，按用户最新未序娘立绘和控制中心参考图优化，完成线上静态发布。未修改后端、Agent 或操作权限配置。
+
+## 页面改动
+
+- 保留完整首页；确认原大立绘与用户新附件 SHA-256 一致，继续使用原稿，更新三视图素材，调整首页立绘排版和头像显示窗口，没有重绘角色。
+- 概览改为指标栏、实例列表、右侧详情、未序娘卡片、节点状态卡。去掉“告警源尚未接入”等过时占位面板，监控入口指向已有监控页。
+- 新增实例名称/节点搜索、节点过滤、观测状态过滤和清空筛选；选中实例用中央 ID 绑定，详情提供实际来源、指标、采集时间、展开标识、日志与最近任务入口。
+- 访问模式依据当前身份能力及只读开关显示；查看令牌不能因为生产已开放操作就显示为“可操作”。
+- 实例表复用既有控制函数，原确认弹窗、幂等、任务链路和 UNKNOWN 恢复逻辑保留。长列表在面板内滚动，移动端表格横向滚动限定在面板内。
+- 修复手机首页导航、能力区和路线图溢出，保留未知/过期/MOCK 标记；未将参考图里的示例数据写死。
+
+## 代码位置与验证
+
+`frontend/src/components/OverviewPanel.vue` 管理概览筛选、选择和详情；`InstanceTable.vue` 新增紧凑显示与详情选择事件，普通实例页仍沿用原展示；`App.vue` 负责连接既有业务入口；`brand-theme.css` 保存视觉和响应式规则。
+
+前端 60 项行为测试通过，TypeScript 检查和生产构建通过。新增组件后首次回归有 7 项测试因编译组件的测试模块替身未注册 OverviewPanel 而失败，补齐替身后原断言全部通过，未删除失败断言。
+
+1440px/390px 浏览器验证共 18 项通过，包括真实实例、搜索、详情、空结果、日志入口、操作确认后取消、无页面溢出和无脚本异常；查看身份及节点/状态组合筛选另有 4 项通过。本次没有发送任何生产操作写请求。
+
+## 发布与恢复
+
+`deploy/frontend/publish-static.py` 校验静态包摘要、拒绝危险归档路径，备份原站点；先复制资源，最后原子替换 index，保留旧哈希资源供已打开页面访问。80/9090 的正确 Host 入口均核对新 index 摘要。随后从公网再次完成浏览器验证，截图仅在本机私有目录保存。
+
+此脚本只更新静态站点；原前四阶段审计的静态摘要对应当时版本，本轮新摘要以本报告链接的发布结果为准。若需回退，使用服务器本次 frontend release 目录的 previous-static.tar.gz；先核验备份，再恢复对应 index 与资源，避免改动后端服务。
+
+证据：[静态发布](验收证据/20261020/frontend-release-result.json)、[桌面与手机](验收证据/20261020/frontend-browser-result.json)、[查看身份与组合筛选](验收证据/20261020/frontend-reader-result.json)。真实地址、令牌和截图未纳入仓库，本次未推送 GitHub。

diff --git a/README.md b/README.md
@@ -1,5 +1,7 @@
 # 未序 Argus
 
+**2026-10-20 前端更新已上线：** 未序娘立绘排版、概览实例筛选与详情联动、节点状态卡和移动端适配，保留既有受控操作。见 [前端优化与验收](docs/前端设计优化-20261020.md)。
+
 **2026-10-19 最新补充：生产操作已开放。** 独立操作令牌可操作 8 个业务容器及 1 个测试容器，原查看令牌继续只读。线上网页测试容器三次动作成功，18 项浏览器及 22 项审计通过；游戏服未参与测试动作。见 [生产操作开放与验收](docs/实现详解/12-生产操作开放与验收.md)。下文“生产保持只读”为本次开放前的阶段记录。
 
 后续开发按 [阶段任务与验收](docs/后续任务与阶段验收.md) 推进；MQ 发布验证记录见 [2026-10-19 验收](docs/MQ可靠性验收-20261019.md)。下文早期部署描述为历史基线，不能代替最新阶段验收结论。
